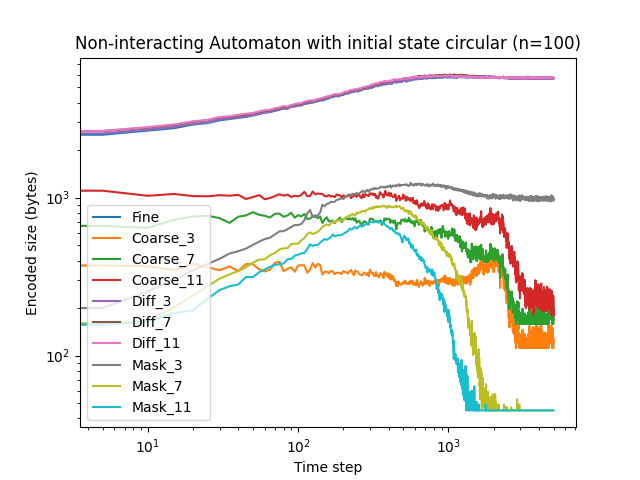
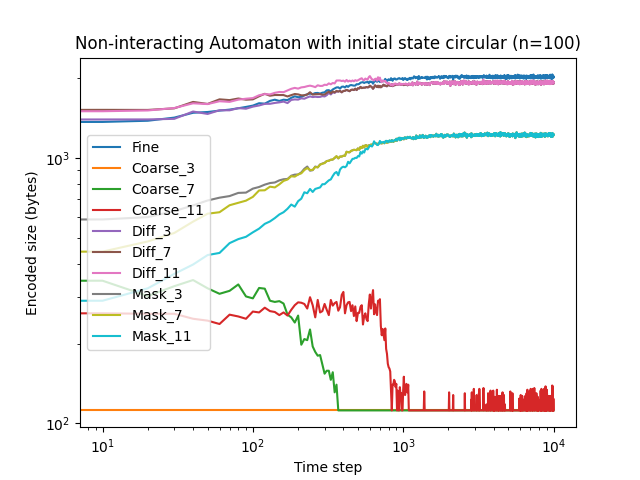
📝 Update README with better graphs

diff --git a/README.md b/README.md
@@ -23,10 +23,23 @@ This codebase started from the given code in the paper and was updated to python
 
 ## Reproduced results
 
-| ![Alt text](figures/reproduced/updown_interacting_100_fine.gif) | ![Alt text](figures/reproduced/updown_non-interacting_100_fine.gif) |
-| :--: | :--: |
-| ![Alt text](figures/reproduced/updown_interacting_100.png) | ![Alt text](figures/reproduced/updown_non-interacting_100.png) |
+Paper figure:
+![Paper figure](figures/reproduced/paper_figures/The-estimated-entropy-and-complexity-of-an-automaton-using-the-coarse-graining-metric.png)
+
+Reproduced figures:
+
+Note that in our codebase and for the sake of accuracy and generalisation, we replaced "complexity" by the "coarse_3" size and "entropy" by the "fine" size.
+
 | *Interacting* | *Non-Interacting* |
+| :--: | :--: |
+| ![Interacting gif](figures/reproduced/updown_interacting_100_fine.gif) | ![Non-Interacting gif](figures/reproduced/updown_non-interacting_100_fine.gif) |
+| ![Interacting results](figures/reproduced/updown_interacting_100_linscale.png) | ![Non-Interacting results](figures/reproduced/updown_non-interacting_100_linscale.png) |
+| ![Alt text](figures/reproduced/updown_interacting_100.png) | ![Alt text](figures/reproduced/updown_non-interacting_100.png) |
+| Interacting automaton takes more step because we count steps when two identical cells are choosen to be swaped, but results are fairly similar for both complexity and entropy. | Non-interacting automaton results couldn't be reproduced, even in loglog scale we cannot see any sign of complexity increase during the experiment even if the entropy is identical. |
+
+
+
+
 
 ## Added Features
 
@@ -34,25 +47,28 @@ This codebase started from the given code in the paper and was updated to python
 
 Instead of starting with a half coffee / half milk initial state we called **updown**. You can now initialize a circle of milk in the center and coffee all around, called the **circular** initial state.
 
-| ![Updown initial state](figures/init_states_examples/init_updown.bmp) | ![Circular initial state](figures/init_states_examples/init_circular.bmp) |
-|:--:| :--: |
-| ![Updown initial state gif](figures/reproduced/updown_interacting_100_fine.gif) | ![Circular initial state gif](figures/init_states_examples/circular_interacting_100_fine.gif) |
+
 | *Updown* | *Circular* |
+|:--:| :--: |
+| ![Updown initial state](figures/init_states_examples/init_updown.bmp) | ![Circular initial state](figures/init_states_examples/init_circular.bmp) |
+| ![Updown initial state gif](figures/reproduced/updown_interacting_100_fine.gif) | ![Circular initial state gif](figures/init_states_examples/circular_interacting_100_fine.gif) |
+
 
 ### Other smoothing functions
  - Generalisation of the coarse-graining function to $k\in N^*, k>2$ categories. In the paper, they take 3 for the initial coarse-graining and 7 for the adujsted coarse-graining.
  - **Diff**erences [0.5 if f(x) == x else x] for each coarse-graining.
  - Differences **Mask** [f(x) == x] for each coarse-graining.
 
-| ![Fine gif](figures/reproduced/updown_interacting_100_fine.gif) | ![Coarse_3 gif](figures/other_smoothing_functions_examples/updown_interacting_100_coarse_3.gif) | ![Coarse_7 gif](figures/other_smoothing_functions_examples/updown_interacting_100_coarse_7.gif) | ![Coarse_11 gif](figures/other_smoothing_functions_examples/updown_interacting_100_coarse_11.gif) | ![Diff_3 gif](figures/other_smoothing_functions_examples/updown_interacting_100_diff_3.gif) | ![Diff_7 gif](figures/other_smoothing_functions_examples/updown_interacting_100_diff_7.gif) | ![Diff_11 gif](figures/other_smoothing_functions_examples/updown_interacting_100_diff_11.gif) | ![Mask_3 gif](figures/other_smoothing_functions_examples/updown_interacting_100_mask_3.gif) | ![Mask_7 gif](figures/other_smoothing_functions_examples/updown_interacting_100_mask_7.gif) | ![Mask_11 gif](figures/other_smoothing_functions_examples/updown_interacting_100_mask_11.gif) |
-| :--: | :--: | :--: | :--: | :--: | :--: | :--: | :--: | :--: | :--: |
+
 | *Fine* | *Coarse_3* | *Coarse_7* | *Coarse_11* | *Diff_3* | *Diff_7* | *Diff_11* | *Mask_3* | *Mask_7* | *Mask_11* |
+| :--: | :--: | :--: | :--: | :--: | :--: | :--: | :--: | :--: | :--: |
+| ![Fine gif](figures/reproduced/updown_interacting_100_fine.gif) | ![Coarse_3 gif](figures/other_smoothing_functions_examples/updown_interacting_100_coarse_3.gif) | ![Coarse_7 gif](figures/other_smoothing_functions_examples/updown_interacting_100_coarse_7.gif) | ![Coarse_11 gif](figures/other_smoothing_functions_examples/updown_interacting_100_coarse_11.gif) | ![Diff_3 gif](figures/other_smoothing_functions_examples/updown_interacting_100_diff_3.gif) | ![Diff_7 gif](figures/other_smoothing_functions_examples/updown_interacting_100_diff_7.gif) | ![Diff_11 gif](figures/other_smoothing_functions_examples/updown_interacting_100_diff_11.gif) | ![Mask_3 gif](figures/other_smoothing_functions_examples/updown_interacting_100_mask_3.gif) | ![Mask_7 gif](figures/other_smoothing_functions_examples/updown_interacting_100_mask_7.gif) | ![Mask_11 gif](figures/other_smoothing_functions_examples/updown_interacting_100_mask_11.gif) |
 
 ### Fluid automaton
 
-| ![Interacting gif](figures/reproduced/updown_interacting_100_fine.gif) | ![Non-Interacting gif](figures/reproduced/updown_non-interacting_100_fine.gif) | ![Fluid gif](figures/updown_fluid_100_fine.gif) |
-| :--: | :--: | :--: |
 | *Interacting* | *Non-Interacting* | *Fluid* |
+| :--: | :--: | :--: |
+| ![Interacting gif](figures/reproduced/updown_interacting_100_fine.gif) | ![Non-Interacting gif](figures/reproduced/updown_non-interacting_100_fine.gif) | ![Fluid gif](figures/updown_fluid_100_fine.gif) |
 
 
 ## Installation
@@ -76,21 +92,36 @@ pip install -e .
 
 ## Quickstart
 
+Launch an experiment
+```bash
+python -m coffeematon --help
+```
+
+Plot a graph from a csv results file
+```bash
+python -m coffeematon.plot_results --help
+```
+
+Generate a gif from bitmaps
+```bash
+python -m coffeematon.generate_gifs --help
+```
+
+
 ## Results
 
 | Initial state | Automaton type | Size | Graph |
 |---------------|----------------|------|-------|
 | Updown | Interacting | 100 | ![updown_interacting_100](figures/graphs/updown_interacting_100.png) |
 | Updown | Interacting | 200 | ![updown_interacting_200](figures/graphs/updown_interacting_200.png) |
-| Updown | Non-Interacting | 100 | ![updown_non-interacting_100](figures/graphs/updown_non-interacting_100.png) |
-| Updown | Non-Interacting | 200 | [SOON] |
-| Updown | Fluid | 100 | ![updown_fluid_100](figures/graphs/updown_fluid_100.png) |
-| Updown | Fluid | 200 | ![updown_fluid_200](figures/graphs/updown_fluid_200.png) |
 | Circular | Interacting | 100 | ![circular_interacting_100](figures/graphs/circular_interacting_100.png) |
 | Circular | Interacting | 200 | ![circular_interacting_200](figures/graphs/circular_interacting_200.png) |
-| Circular | Non-Interacting | 100 | ![circular_non-interacting_100](figures/graphs/circular_non-interacting_100.png) |
-| Circular | Non-Interacting | 200 | ![circular_non-interacting_200](figures/graphs/circular_non-interacting_200.png) |
+| Updown | Fluid | 100 | ![updown_fluid_100](figures/graphs/updown_fluid_100.png) |
+| Updown | Fluid | 200 | ![updown_fluid_200](figures/graphs/updown_fluid_200.png) |
 | Circular | Fluid | 100 | ![circular_fluid_100](figures/graphs/circular_fluid_100.png) |
 | Circular | Fluid | 200 | ![circular_fluid_200](figures/graphs/circular_fluid_200.png) |
-
+| Updown | Non-Interacting | 100 | ![updown_non-interacting_100](figures/graphs/updown_non-interacting_100.png) |
+| Updown | Non-Interacting | 200 | ![updown_non-interacting_100](figures/graphs/updown_non-interacting_200.png) |
+| Circular | Non-Interacting | 100 | ![circular_non-interacting_100](figures/graphs/circular_non-interacting_100.png) |
+| Circular | Non-Interacting | 200 | ![circular_non-interacting_200](figures/graphs/circular_non-interacting_200.png) |
 
